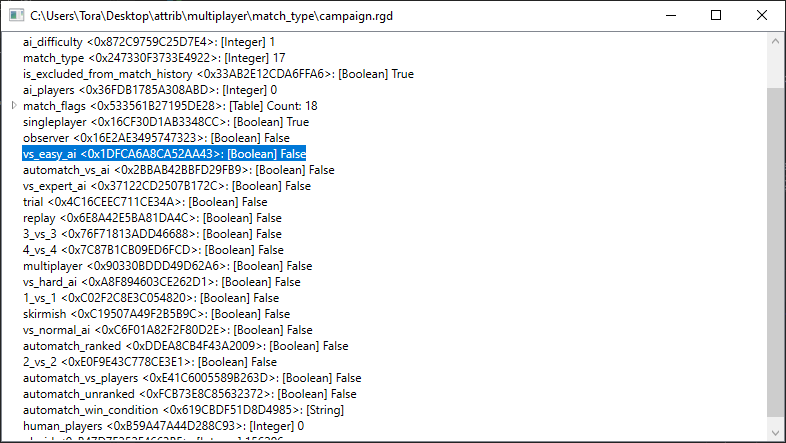
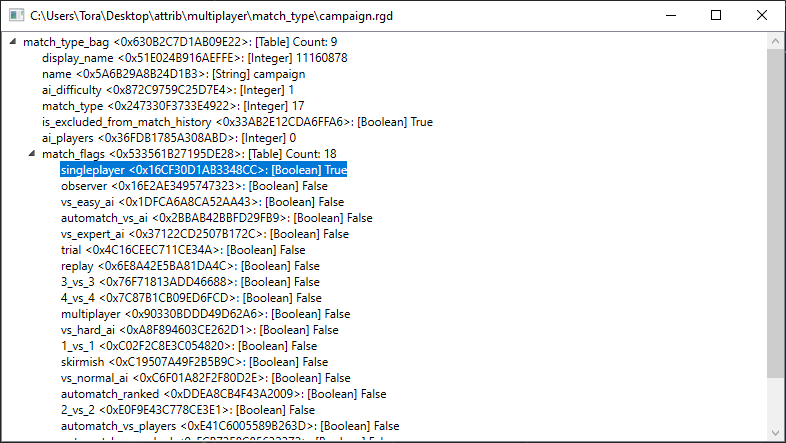
don't flatten table

Changed region(s): [[0.0305, 0.0587, 0.5496, 1.0], [0.9771, 0.088, 1.0, 0.2054], [0.9771, 0.851, 1.0, 0.9391]]

diff --git a/RGDReaderCLI/Program.cs b/RGDReaderCLI/Program.cs
@@ -51,18 +51,29 @@ if (kvs != null && keys != null)
     var keysInv = ChunkyUtil.ReverseReadOnlyDictionary(keys.StringKeys);
     var resolved = ChunkyUtil.ResolveKeyValues(keys, kvs);
     Console.WriteLine("All key-values");
-    foreach (var kv in resolved)
+
+    void printTable(IReadOnlyDictionary<ulong, (int Type, object Value)> table, int indent = 0)
     {
-        if (kv.Value.HasValue)
+        foreach (var (childKey, (childType, childValue)) in table)
         {
-            Console.WriteLine(
-                "{0}: [{1}] <{2}>",
-                kv.Key,
-                typeDisplayName[kv.Value.Value.Type],
-                kv.Value.Value.Value is IReadOnlyDictionary<ulong, (int Type, object Value)> dict ?
-                    string.Join(", ", dict.Keys.Select(key => keysInv.GetValueOrDefault(key, "<Unknown>"))) :
-                    kv.Value.Value.Value
-            );
+            printValue(childKey, childType, childValue, indent + 1);
         }
     }
+
+    void printValue(ulong key, int type, object value, int indent = 0)
+    {
+        Console.Write(string.Join("", Enumerable.Range(0, indent).Select(_ => "  ")));
+        Console.Write(keysInv.GetValueOrDefault(key, "<Unknown>"));
+        if (value is IReadOnlyDictionary<ulong, (int Type, object Value)> table)
+        {
+            Console.WriteLine(" [Table]");
+            printTable(table, indent + 1);
+        }
+        else
+        {
+            Console.WriteLine(" [{0}] <{1}>", typeDisplayName[type], value);
+        }
+    }
+
+    printTable(kvs.KeyValues);
 }

diff --git a/RGDReader/ChunkyFileReader.cs b/RGDReader/ChunkyFileReader.cs
@@ -103,24 +103,9 @@ public class ChunkyFileReader : BinaryReader
 
         var table = ReadTable();
 
-        Dictionary<ulong, (int Type, object Value)> flatTable = new();
-
-        void addToFlatTable(Dictionary<ulong, (int Type, object Value)> t)
-        {
-            foreach (var (key, tv) in t)
-            {
-                flatTable[key] = tv;
-                if (tv.Type == 100 || tv.Type == 101)
-                {
-                    addToFlatTable((Dictionary<ulong, (int Type, object Value)>)tv.Value);
-                }
-            }
-        }
-        addToFlatTable(table);
-
         BaseStream.Position = startPosition + length;
 
-        return new KeyValueDataChunk(flatTable);
+        return new KeyValueDataChunk(table);
     }
 
     public KeysDataChunk ReadKeysDataChunk()
